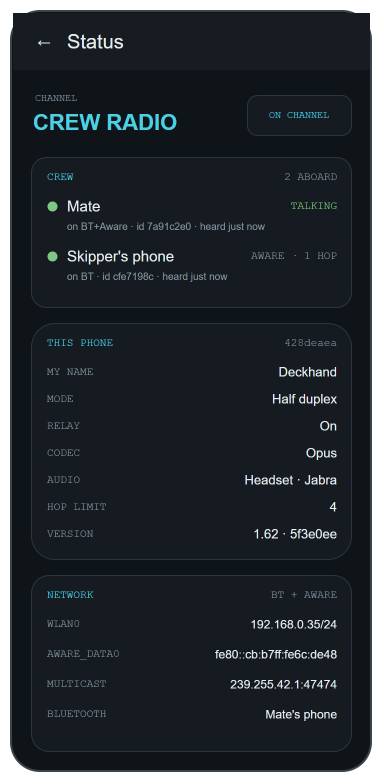
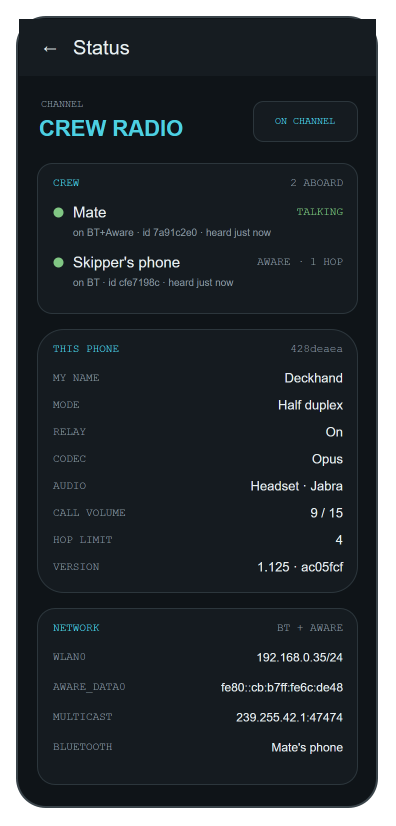
Docs: the volume row in the headset and Status sections, the Status mock-up gains CALL VOLUME

diff --git a/docs/diagrams/make_diagrams.py b/docs/diagrams/make_diagrams.py
@@ -151,7 +151,7 @@ def main_screen(p, x, y, state, peers="2", peer_row=True, bt=True):
 
 
 def status_screen(p, x, y):
-    n = [frame(p + "f", x, y)]
+    n = [frame(p + "f", x, y, h=790)]
     n.append(rect(p + "bar", x + 2, y + 2, 356, 56, fill="#161C21", stroke="#161C21", arc=0))
     n.append(txt(p + "back", "←", x + 18, y + 12, 30, 36, 20, TEXT, align="center"))
     n.append(txt(p + "ttl", "Status", x + 56, y + 12, 200, 36, 20, TEXT, mono=False))
@@ -171,22 +171,22 @@ def status_screen(p, x, y):
     n.append(txt(p + "n2s", "AWARE · 1 HOP", x + 216, y + 234, 110, 22, 11, MUTED, align="right", spacing=1))
     n.append(txt(p + "n2d", "on BT · id cfe7198c · heard just now", x + 56, y + 256, 280, 18, 10, MUTED, mono=False))
     # this phone card
-    n.append(rect(p + "c2", x + 20, y + 312, 320, 236, arc=10))
+    n.append(rect(p + "c2", x + 20, y + 312, 320, 263, arc=10))
     n.append(txt(p + "c2t", "THIS PHONE", x + 36, y + 322, 140, 20, 11, CYAN, spacing=2))
     n.append(txt(p + "c2r", "428deaea", x + 220, y + 322, 106, 20, 11, MUTED, align="right", spacing=2))
     rows = [("MY NAME", "Deckhand"), ("MODE", "Half duplex"), ("RELAY", "On"), ("CODEC", "Opus"),
-            ("AUDIO", "Headset · Jabra"), ("HOP LIMIT", "4"), ("VERSION", "1.62 · 5f3e0ee")]
+            ("AUDIO", "Headset · Jabra"), ("CALL VOLUME", "9 / 15"), ("HOP LIMIT", "4"), ("VERSION", "1.125 · ac05fcf")]
     for i, (k, v) in enumerate(rows):
         ry = y + 350 + i * 27
         n.append(txt(p + f"k{i}", k, x + 36, ry, 120, 22, 11, MUTED, spacing=1))
         n.append(txt(p + f"v{i}", v, x + 150, ry, 176, 22, 13, TEXT, align="right", mono=False))
     # network card
-    n.append(rect(p + "c3", x + 20, y + 564, 320, 176, arc=10))
-    n.append(txt(p + "c3t", "NETWORK", x + 36, y + 574, 140, 20, 11, CYAN, spacing=2))
-    n.append(txt(p + "c3r", "BT + AWARE", x + 200, y + 574, 126, 20, 11, MUTED, align="right", spacing=2))
+    n.append(rect(p + "c3", x + 20, y + 591, 320, 176, arc=10))
+    n.append(txt(p + "c3t", "NETWORK", x + 36, y + 601, 140, 20, 11, CYAN, spacing=2))
+    n.append(txt(p + "c3r", "BT + AWARE", x + 200, y + 601, 126, 20, 11, MUTED, align="right", spacing=2))
     rows = [("WLAN0", "192.168.0.35/24"), ("AWARE_DATA0", "fe80::cb:b7ff:fe6c:de48"), ("MULTICAST", "239.255.42.1:47474"), ("BLUETOOTH", "Mate's phone")]
     for i, (k, v) in enumerate(rows):
-        ry = y + 602 + i * 30
+        ry = y + 629 + i * 30
         n.append(txt(p + f"nk{i}", k, x + 36, ry, 120, 22, 11, MUTED, spacing=1))
         n.append(txt(p + f"nv{i}", v, x + 130, ry, 196, 22, 12, TEXT, align="right", mono=False))
     return n
@@ -241,7 +241,7 @@ diagram("screens", "The screens", nodes=(
 
 diagram("screen-main", "Main screen", nodes=main_screen("a", 20, 20, "on"), edges=[], width=400, height=800)
 diagram("screen-on-air", "On air", nodes=main_screen("a", 20, 20, "air"), edges=[], width=400, height=800)
-diagram("screen-status", "Status screen", nodes=status_screen("s", 20, 20), edges=[], width=400, height=800)
+diagram("screen-status", "Status screen", nodes=status_screen("s", 20, 20), edges=[], width=400, height=830)
 diagram("screen-settings", "Settings screen", nodes=settings_screen("s", 20, 20), edges=[], width=400, height=980)
 
 

diff --git a/README.md b/README.md
@@ -99,11 +99,18 @@ phone is at your ear. **Settings › Talking › Audio output** can pin it to th
 Half duplex on a loudspeaker works well; **full duplex** (everyone heard at once) is far better
 with a headset, because a loudspeaker feeds back into the microphone.
 
+How loud the others are is the **volume slider** above the disc: the phone's call volume for
+whatever the sound goes to, so the loudspeaker, the earpiece and a headset each keep their own
+level, and a headset's own volume buttons move the slider too. The **speaker glyph** at its left
+mutes the others without touching the level; you still hear your own talk-key tones, and the
+mute is cleared when you leave the channel.
+
 ## The Status screen
 
 Menu ⋮ › **Status** is the place to look when something seems off. It shows every crew member
 with the link they arrive on, how many hops away they are, what they are connected to and when
-they were last heard; this phone's name, mode, codec, where the audio goes and the app version;
+they were last heard; this phone's name, mode, codec, where the audio goes, the call volume and
+the app version;
 the phone's addresses; packet counters (received, sent, relayed, duplicates dropped, concealed,
 hellos); and the last forty status lines with time stamps.
 

diff --git a/docs/ARCHITECTURE.md b/docs/ARCHITECTURE.md
@@ -157,7 +157,8 @@ of the transports, so they need a rejoin. The channel key is generated at random
 | `audio/AudioConfig` | 16 kHz, 20 ms, frame sizes |
 | `audio/AudioCapture`, `audio/AudioPlayback` | Mic in, speaker out, each on its own thread |
 | `audio/OpusEncoder`, `audio/OpusDecoder`, `audio/Decimator` | Platform Opus and the 48 → 16 kHz step |
-| `audio/Mixer`, `audio/Conceal`, `audio/Tones` | Per-talker queues, loss concealment, cue tones |
+| `audio/Mixer`, `audio/Conceal`, `audio/Tones` | Per-talker queues, loss concealment, cue tones, the mute |
+| `audio/CallVolume` | The phone's call volume behind the main screen's slider: stream in use, range, level |
 | `audio/MicGate` | Voice-operated keying |
 | `audio/AudioRoute` | Headset, earpiece or loudspeaker, following the hardware and the ear |
 | `transport/Transport` | The interface: `start`, `send` (returns whether anything went out), `stop`, `relayWithin` |
